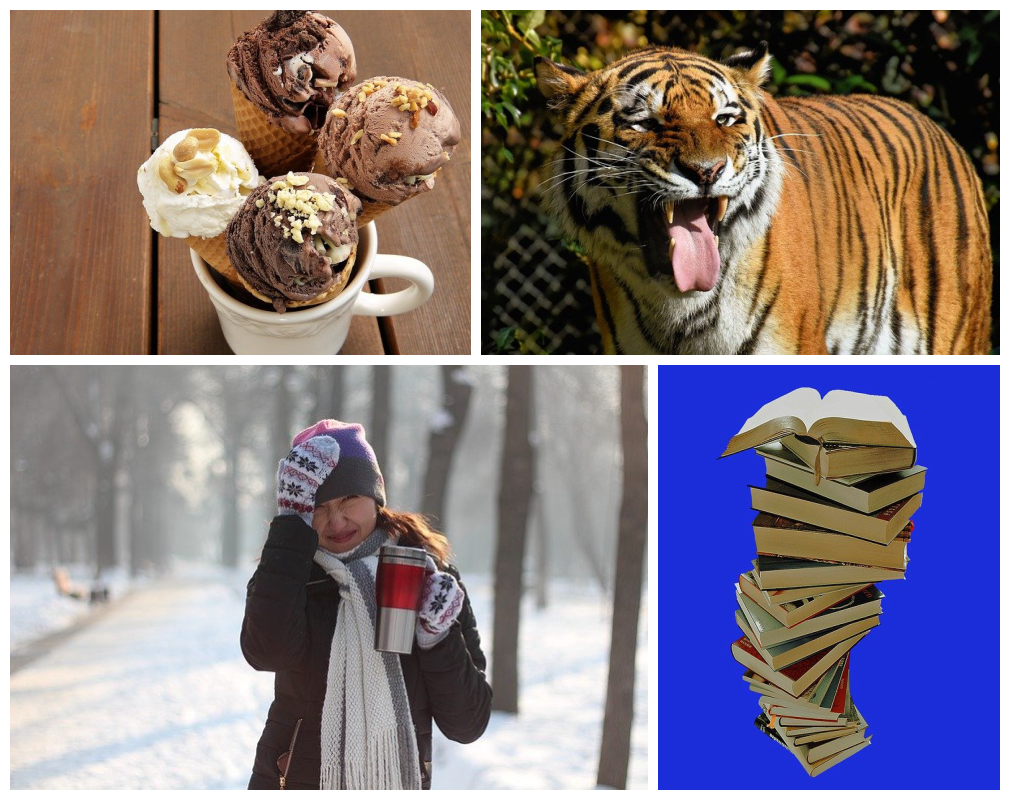
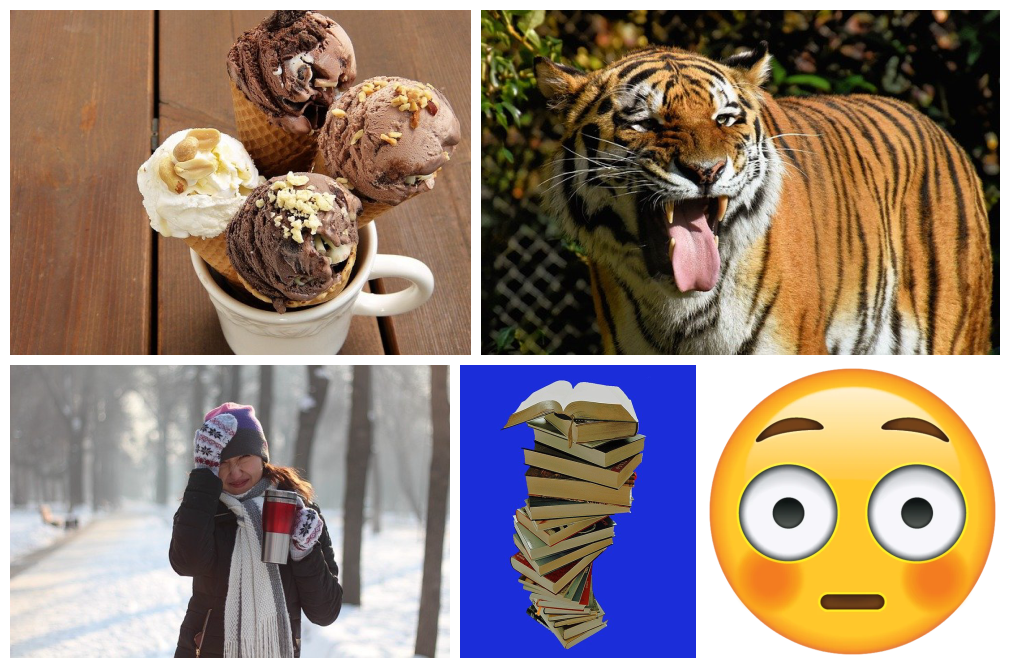
adding reminder behaviour option

diff --git a/src/index.js b/src/index.js
@@ -18,6 +18,7 @@ async function collage(options) {
     images: [],
     image: null,
     cols: 2,
+    reminderToTop: true,
     background: 0xFFFFFFFF
   };
   const opts = {};
@@ -27,7 +28,7 @@ async function collage(options) {
     opts.images.push(opts.image);
   }
 
-  const rowsNumber = Math.ceil(opts.images.length / opts.cols);
+  let rowsNumber = Math.ceil(opts.images.length / opts.cols);
   const rows = [];
 
   //  making rows from images array
@@ -51,6 +52,32 @@ async function collage(options) {
 
     rows[i].height = (opts.width - opts.gap * rows[i].images.length) / devisor;
   }
+
+  if (
+    opts.reminderToTop &&
+    opts.images.length % rowsNumber < opts.cols &&
+    rows.length > 1
+  ) {
+
+    const remainder = rows.pop();
+    rows[rows.length - 1].images = rows[rows.length - 1].images.concat(remainder.images);
+
+
+    // sorry for code dublication, i will fix that soon (:
+    let devisor = 0;
+    rows[rows.length - 1].images.forEach((image) => {
+      devisor += image.bitmap.width / image.bitmap.height;
+    });
+
+    rows[rows.length - 1].height = (opts.width - opts.gap * rows[rows.length - 1].images.length) / devisor;
+
+
+  }
+  
+
+  // console.log(rows[rows.length - 1].);
+
+  
 
   //  making canvas
   const heights = rows.map((row) => row.height);

diff --git a/example/index.js b/example/index.js
@@ -2,14 +2,15 @@ const fs = require("fs");
 const collage = require("../src/index");
 
 const buffer = collage({
-	images: [
-		"./example/images/1.jpg",
-		"./example/images/2.jpg",
-		"./example/images/3.jpg",
-		"./example/images/4.jpg",
-	],
-	
-	gap: 10
+  images: [
+    "./example/images/1.jpg",
+    "./example/images/2.jpg",
+    "./example/images/3.jpg",
+    "./example/images/4.jpg",
+    "./example/images/5.jpg",
+  ],
+
+  gap: 10,
 });
 
 buffer.then((currentBuffer) => {
